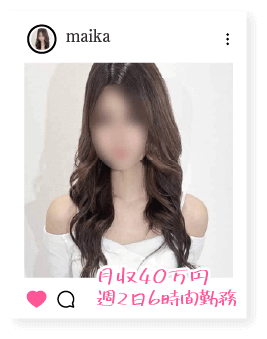
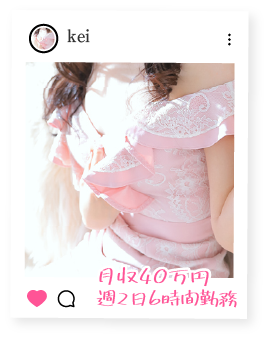
salary 女の子画像差し替え

diff --git a/recruit/assets/css/components/_salary.scss b/recruit/assets/css/components/_salary.scss
@@ -736,9 +736,9 @@
       }
       img {
         position: absolute;
-        width: 335px;
+        width: 269px;
         @include pc {
-          width: calc(335vw / (1200 / 100));
+          width: calc(269vw / (1200 / 100));
         }
         @include tab {
           width: calc(365vw / (768 / 100));
@@ -759,11 +759,12 @@
           }
         }
         &:nth-child(2) {
-          top: 142px;
-          left: 35px;
+          top: 165px;
+          left: 72px;
+          transform: rotate(346deg);
           @include pc {
-            top: calc(142vw / (1200 / 100));
-            left: calc(35vw / (1200 / 100));
+            top: calc(165vw / (1200 / 100));
+            left: calc(72vw / (1200 / 100));
           }
           @include tab {
             top: calc(74vw / (768 / 100));
@@ -772,37 +773,39 @@
           }
         }
         &:nth-child(3) {
-          top: 476px;
-          left: 195px;
-          transform: rotate(4deg);
+          top: 500px;
+          left: 221px;
+          transform: rotate(-10deg);
           @include pc {
-            top: calc(476vw / (1200 / 100));
-            left: calc(195vw / (1200 / 100));
+            top: calc(500vw / (1200 / 100));
+            left: calc(221vw / (1200 / 100));
           }
           @include tab {
             top: calc(493vw / (768 / 100));
             left: calc(27vw / (768 / 100));
             transform: rotate(-8deg);
+            z-index: 2;
           }
         }
         &:nth-child(4) {
-          top: 493px;
-          left: 437px;
-          transform: rotate(14deg);
+          top: 515px;
+          left: 470px;
+          transform: rotate(1deg);
           @include pc {
-            top: calc(493vw / (1200 / 100));
-            left: calc(437vw / (1200 / 100));
+            top: calc(515vw / (1200 / 100));
+            left: calc(470vw / (1200 / 100));
           }
           @include tab {
             top: calc(455vw / (768 / 100));
             left: calc(357vw / (768 / 100));
             transform: rotate(7deg);
+            z-index: 1;
           }
         }
         &:nth-child(5) {
-          top: 488px;
-          left: 692px;
-          transform: rotate(28deg);
+          top: 509px;
+          left: 722px;
+          transform: rotate(14deg);
           @include pc {
             top: calc(488vw / (1200 / 100));
             left: calc(692vw / (1200 / 100));
@@ -814,12 +817,12 @@
           }
         }
         &:nth-child(6) {
-          top: 145px;
-          right: 27px;
-          transform: rotate(31deg);
+          top: 170px;
+          right: 59px;
+          transform: rotate(17deg);
           @include pc {
-            top: calc(145vw / (1200 / 100));
-            right: calc(27vw / (1200 / 100));
+            top: calc(170vw / (1200 / 100));
+            right: calc(59vw / (1200 / 100));
           }
           @include tab {
             top: calc(867vw / (768 / 100));

diff --git a/recruit/components/salary.php b/recruit/components/salary.php
@@ -157,10 +157,10 @@
       <div class="salary__box4-inner">
         <img src="<?php echo $path; ?>assets/images/salary-img2.png" alt="75%未経験">
         <img src="<?php echo $path; ?>assets/images/salary-girl1.png" alt="未経験の女の子１">
-        <img src="<?php echo $path; ?>assets/images/salary-girl1.png" alt="未経験の女の子２">
-        <img src="<?php echo $path; ?>assets/images/salary-girl1.png" alt="未経験の女の子３">
-        <img src="<?php echo $path; ?>assets/images/salary-girl1.png" alt="未経験の女の子４">
-        <img src="<?php echo $path; ?>assets/images/salary-girl1.png" alt="未経験の女の子５">
+        <img src="<?php echo $path; ?>assets/images/salary-girl2.png" alt="未経験の女の子２">
+        <img src="<?php echo $path; ?>assets/images/salary-girl3.png" alt="未経験の女の子３">
+        <img src="<?php echo $path; ?>assets/images/salary-girl4.png" alt="未経験の女の子４">
+        <img src="<?php echo $path; ?>assets/images/salary-girl5.png" alt="未経験の女の子５">
       </div>
     </div>
   </div>
